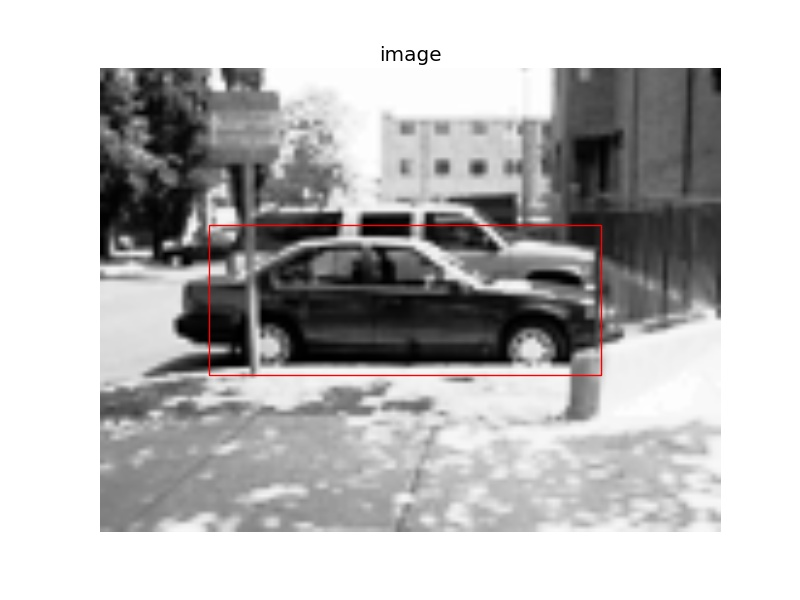
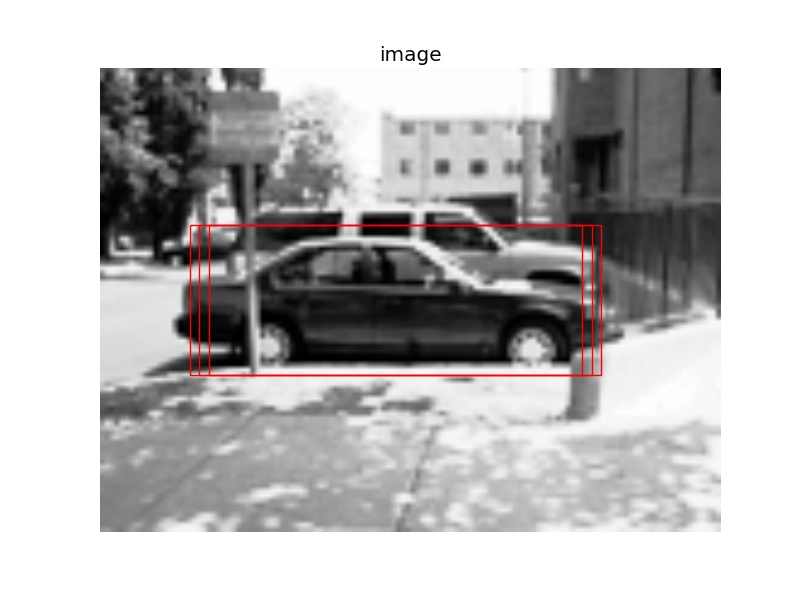
fixed 3.2 v2

Changed region(s): [[0.2188, 0.36, 0.75, 0.63], [0.3438, 0.36, 0.6562, 0.39]]

diff --git a/project3/task2/task2.py b/project3/task2/task2.py
@@ -135,7 +135,7 @@ def estimateModel(W, X, y,recall_sc):
     # Empirically we want the value of recall being ~ 0.9
     plt.axvline(x = recall_sc,color = "red")
     plt.show()
-    i = np.argmin(np.array(recall) - recall_sc)
+    i = np.argmin(np.abs(np.array(recall) - recall_sc))
 
     return thetas[i], precision[i], recall[i], accuracy[i]
 
@@ -153,6 +153,7 @@ def slidingWindow(f, W, meanT, threshold):
     Xtest = [img[j :j + W.shape[0], i:i + W.shape[1]] for j in np.arange(h-W.shape[0], step = 2) for i in np.arange(w - W.shape[1], step = 2)]
 
     coord = [(i,j) for j in np.arange(h-W.shape[0], step = 2) for i in np.arange(w - W.shape[1], step = 2)]
+    #predict using precomputed W and X - mu_train
     Ypred = predict(W, np.array(Xtest)-meanT, threshold)
     for coords in np.array(coord)[np.where(Ypred == 1.)[0]]:
         rect = plt.Rectangle(coords, W.shape[1], W.shape[0], edgecolor='r', facecolor='none')
@@ -172,9 +173,10 @@ def main():
 
     #aquire train labels
     train_names, y = getLabels(TRAIN_FOLDER)
-
-    theta_best, prec, rec, acc = estimateModel(W, X, y, 0.85)
+    # Empirically, we want recall == 66%. Greedy recall will match everything,
+    theta_best, prec, rec, acc = estimateModel(W, X, y, 0.66)
 
     for img in test_names[1:30]:
         slidingWindow(img, W,meanT, theta_best)
+        slidingWindow(img, W, meanT, 160)
 
